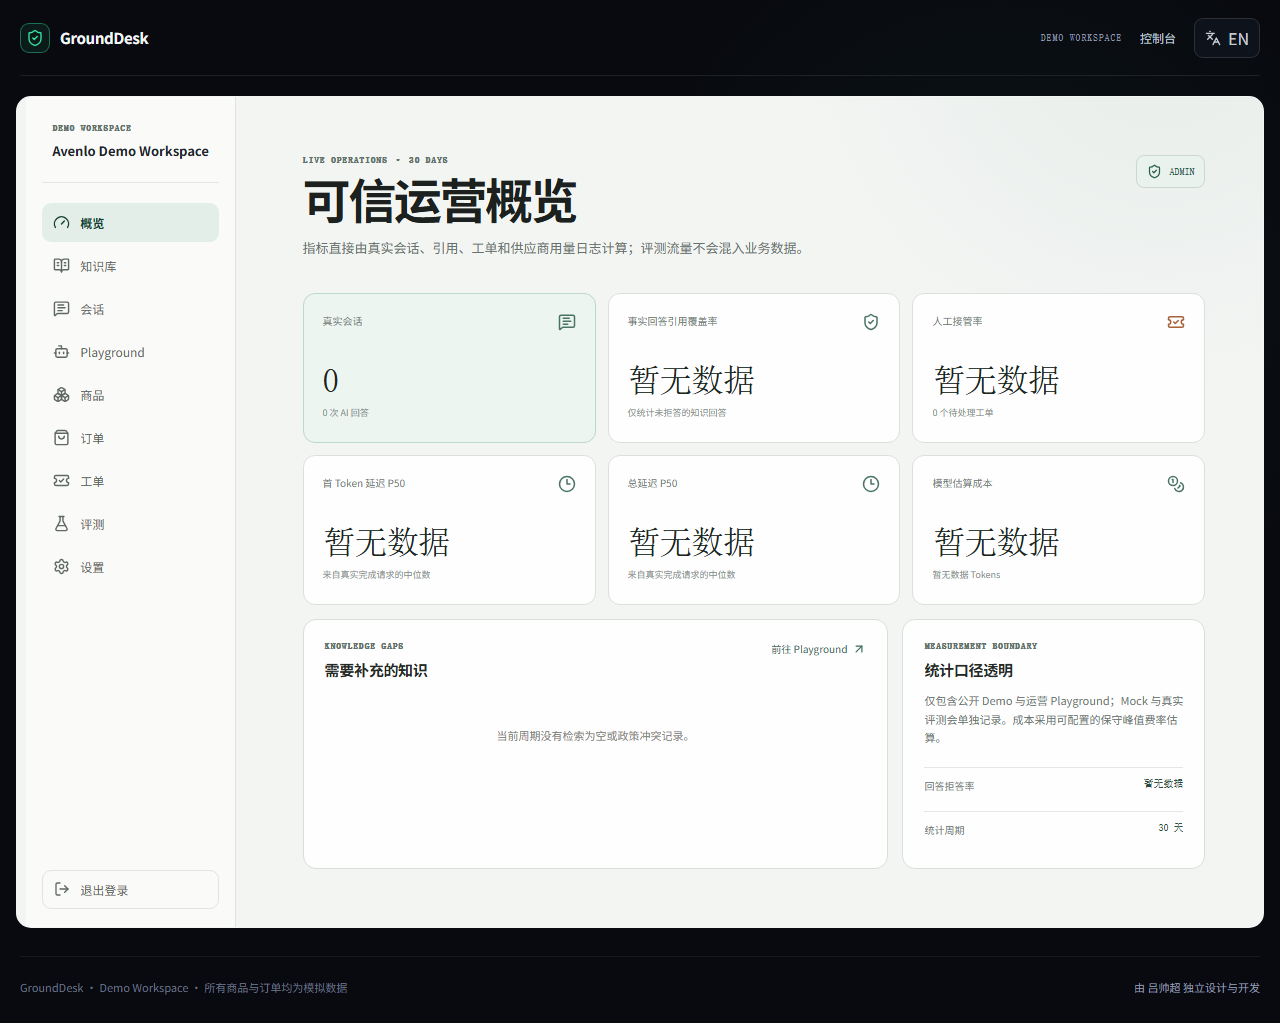
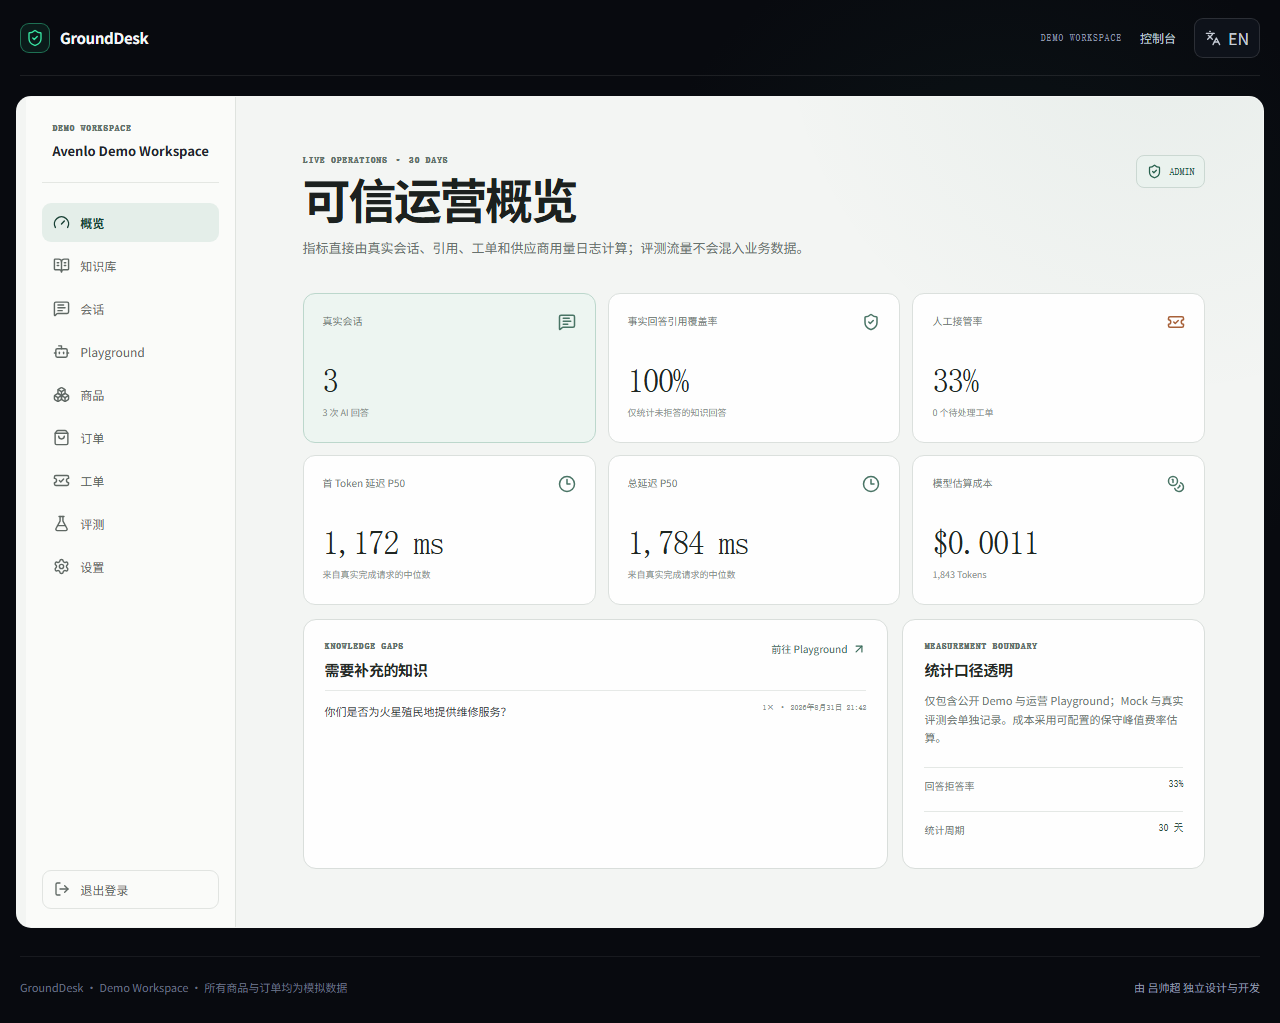
docs: record verified Render deployment

diff --git a/docs/acceptance-matrix.md b/docs/acceptance-matrix.md
@@ -1,34 +1,34 @@
 # GroundDesk 验收矩阵
 
-本文件把原始项目标准映射到可复查证据。状态分为“本地已验证”和“待线上验证”；没有公开 URL 的项目不能据此宣称最终完成。
+本文件把原始项目标准映射到可复查证据。状态区分“本地已验证”与“线上已验证”；仍未完成的外部门禁会在末尾明确列出。
 
 ## 功能与安全
 
-| 验收域                                              | 当前状态   | 权威证据                                                                          |
-| --------------------------------------------------- | ---------- | --------------------------------------------------------------------------------- |
-| 注册、登录、JWT、管理员/客服权限                    | 本地已验证 | `202608290002_auth_boundaries.sql`、`auth.test.ts`、`auth:smoke`、登录/保护页 E2E |
-| Workspace 隔离与 RLS                                | 本地已验证 | 26/26 张业务表启用 RLS；`auth:smoke` 跨 Workspace 为 403；评测隔离用例 2/2        |
-| 8 件商品与 30 个动态日期订单                        | 本地已验证 | 幂等 Seed、`db:verify`、商品与订单控制台、Demo Reset E2E                          |
-| PDF/Markdown/TXT 上传、去重、状态、重试、Chunk 预览 | 本地已验证 | Knowledge Service、解析/切块测试、`knowledge:http-smoke`、知识库浏览器 E2E        |
-| 真实 Embedding 与混合检索                           | 本地已验证 | SiliconFlow `BAAI/bge-m3`、`vector(1024)`、全文检索函数、`knowledge:smoke` 3/3    |
-| DeepSeek 流式回答与真实引用                         | 本地已验证 | Provider Adapter、SSE 路由、引用完整性校验、`agent:smoke`、Live Demo E2E          |
-| 低置信度/冲突/注入拒答与人工接管                    | 本地已验证 | Evidence Guard、Agent 单测、评测无答案与注入用例、Live Demo E2E                   |
-| 订单查询白名单工具                                  | 本地已验证 | DeepSeek Function Calling、Zod 参数、邮箱匹配、脱敏结果、Agent Smoke              |
-| 确定性退货资格与人工审批                            | 本地已验证 | 版本化规则、退货单测 100%、5 条 Live Evaluation、无自动退款路径                   |
-| 工单分配、回复、状态流转                            | 本地已验证 | Ticket Service、真实数据库 Smoke、管理员转客服 E2E                                |
-| Webhook Outbox、HMAC、超时、重试、SSRF 防护         | 本地已验证 | 数据库触发器、Webhook 安全测试、真实本地 HTTP 503 → 202 重试测试                  |
-| IP、Session、每日请求与 Token 成本边界              | 本地已验证 | Fastify IP 限流、独立 Session 窗口、Workspace 每日数据库额度、73 个 API 测试      |
-| Demo 一键恢复                                       | 本地已验证 | 事务重置、8 商品/30 订单/空工单浏览器验收；知识与成员保留                         |
-| 密钥与前端边界                                      | 本地已验证 | `.env` 被忽略；Git 历史 Secret 模式 0；Web 产物服务端 Secret 模式 0               |
+| 验收域                                              | 当前状态   | 权威证据                                                                              |
+| --------------------------------------------------- | ---------- | ------------------------------------------------------------------------------------- |
+| 注册、登录、JWT、管理员/客服权限                    | 线上已验证 | `202608290002_auth_boundaries.sql`、`auth.test.ts`、`auth:smoke`、公网登录/保护页 E2E |
+| Workspace 隔离与 RLS                                | 本地已验证 | 26/26 张业务表启用 RLS；`auth:smoke` 跨 Workspace 为 403；评测隔离用例 2/2            |
+| 8 件商品与 30 个动态日期订单                        | 本地已验证 | 幂等 Seed、`db:verify`、商品与订单控制台、Demo Reset E2E                              |
+| PDF/Markdown/TXT 上传、去重、状态、重试、Chunk 预览 | 本地已验证 | Knowledge Service、解析/切块测试、`knowledge:http-smoke`、知识库浏览器 E2E            |
+| 真实 Embedding 与混合检索                           | 本地已验证 | SiliconFlow `BAAI/bge-m3`、`vector(1024)`、全文检索函数、`knowledge:smoke` 3/3        |
+| DeepSeek 流式回答与真实引用                         | 线上已验证 | Provider Adapter、SSE 路由、引用完整性校验、`agent:smoke`、公网 Live Demo E2E         |
+| 低置信度/冲突/注入拒答与人工接管                    | 线上已验证 | Evidence Guard、Agent 单测、评测无答案与注入用例、公网 Live Demo E2E                  |
+| 订单查询白名单工具                                  | 线上已验证 | DeepSeek Function Calling、Zod 参数、邮箱匹配、脱敏结果、公网 Live Demo E2E           |
+| 确定性退货资格与人工审批                            | 本地已验证 | 版本化规则、退货单测 100%、5 条 Live Evaluation、无自动退款路径                       |
+| 工单分配、回复、状态流转                            | 线上已验证 | Ticket Service、真实数据库 Smoke、公网管理员转客服 E2E                                |
+| Webhook Outbox、HMAC、超时、重试、SSRF 防护         | 本地已验证 | 数据库触发器、Webhook 安全测试、真实本地 HTTP 503 → 202 重试测试                      |
+| IP、Session、每日请求与 Token 成本边界              | 本地已验证 | Fastify IP 限流、独立 Session 窗口、Workspace 每日数据库额度、73 个 API 测试          |
+| Demo 一键恢复                                       | 本地已验证 | 事务重置、8 商品/30 订单/空工单浏览器验收；知识与成员保留                             |
+| 密钥与前端边界                                      | 本地已验证 | `.env` 被忽略；Git 历史 Secret 模式 0；Web 产物服务端 Secret 模式 0                   |
 
 ## 产品、视觉与质量
 
 | 验收域                             | 当前状态   | 权威证据                                                                                 |
 | ---------------------------------- | ---------- | ---------------------------------------------------------------------------------------- |
-| 双语落地页、公开 Demo、核心控制台  | 本地已验证 | Vue I18n 持久化、语言单测、浏览器刷新 E2E                                                |
+| 双语落地页、公开 Demo、核心控制台  | 线上已验证 | Vue I18n 持久化、语言单测、公网浏览器刷新 E2E                                            |
 | Hero 可信流程动画                  | 本地已验证 | `TrustFlowAnimation.vue`；视口触发、悬停暂停、离屏暂停、Reduced Motion E2E               |
 | 服务端事件驱动聊天轨迹             | 本地已验证 | SSE Stage/Token/Citation/Tool 事件；无写死等待；Live Demo E2E                            |
-| 1440、1280、768、390 响应式        | 本地已验证 | `visual-audit.spec.ts` 四视口无水平溢出；三张真实数据截图                                |
+| 1440、1280、768、390 响应式        | 线上已验证 | 公网 `visual-audit.spec.ts` 四视口无水平溢出；三张线上真实数据截图                       |
 | 键盘、焦点、Reduced Motion、对比度 | 本地已验证 | 可见 Focus 样式、语义控件、Reduced Motion 测试、Lighthouse Accessibility 100             |
 | 本地 production Lighthouse         | 本地已验证 | 桌面 99/100/100/100；移动 97/100/100/100（Performance/Accessibility/Best Practices/SEO） |
 | TypeScript、lint、测试、构建       | 本地已验证 | TypeScript strict；lint 零告警；Shared 3 + API 73 + Web 10；production build 通过        |
@@ -40,13 +40,13 @@ README、架构、RAG、Agent、评测、部署、演示脚本、面试问答、
 
 ## 外部部署状态
 
-截至 2026-08-31，公共 GitHub 仓库已创建并推送，项目所有者已授权 Render Static Site 作为前端托管；作者、联系地址与仓库 URL 已写入版本化部署配置。Render 已真实读取并校验 Blueprint，期间发现并修复了 Free Web Service 不支持 `maxShutdownDelaySeconds` 的平台差异。
+截至 2026-08-31，公共 GitHub 仓库、Render Static Site 和 Free API 均已创建。公开地址为 https://grounddesk-ai-lsc.onrender.com，API `/health` 返回 `status: ok`、`runtimeMode: connected`，Database、Generation、Embedding 三个 Provider 均为 configured。Render 首次构建暴露了只读 `/usr/bin/pnpm` 与 `corepack enable` 的冲突，修复并重新同步 Blueprint 后两个服务均为 Live。
 
-以下项目未完成前不得宣布最终上线：
+公网验收实际完成：3 条确定性 E2E、1 条真实 Provider 全链路 E2E、1440/1280/768/390 四视口检查、Web/API 200 状态、精确 CORS、安全响应头，以及 4 项服务端 Secret 对 269 个 Git/Web 构建文件的零匹配扫描。
 
-1. 经项目所有者明确确认后，将本地服务端 Secret 安全写入 Render，并创建 Free API 与 Static Site；
-2. 将最终 Web Origin 写入 Supabase Auth URL；API CORS Origin 已由 Blueprint 服务引用自动生成；
-3. 在无痕窗口重跑登录、引用问答、订单工具、拒答接管与客服结单；
-4. 对公开 URL 重跑四视口、Lighthouse、Secret 模式与响应头检查；
-5. 把最终 URL 写入 README、简历文案和演示脚本；
-6. 投递简历前经项目所有者确认升级 API 为常驻实例，避免 Free 实例休眠造成首次访问冷启动。
+以下项目仍未完成前不得宣称达到原始“最终求职上线”标准：
+
+1. 在 Supabase Dashboard 核对最终 Site URL / Redirect URLs；密码登录已在线通过，但邮件链接流程仍需该配置闭环；
+2. 重新获得公网 Lighthouse 分数；本次 Lighthouse 下载超时且 PageSpeed 公共 API 返回配额限制，现有 99/100/100/100 与 97/100/100/100 仅代表本地 production；
+3. 投递简历前经项目所有者确认升级 API 为常驻实例，避免 Free 实例休眠造成首次访问冷启动；
+4. 项目所有者亲手完成 `owner-checklist.md`，尤其是干净 Clone、真实文档上传、政策变更与无 AI 提示三分钟演示。

diff --git a/README.md b/README.md
@@ -2,13 +2,13 @@
 
 > 每一次回答，都有依据。Support answers you can verify.
 
-GroundDesk 是一个面向电商、SaaS 与教育等场景的双语可信 AI 客服知识库 SaaS。它把“模型会回答”约束为“答案有来源、无依据会拒答、业务动作有确定边界”。本地验收截图已经由真实数据库状态录制，公开 Demo 仍待部署验收；仓库不会使用占位 URL、伪造指标或虚构客户评价。
+GroundDesk 是一个面向电商、SaaS 与教育等场景的双语可信 AI 客服知识库 SaaS。它把“模型会回答”约束为“答案有来源、无依据会拒答、业务动作有确定边界”。公开 Demo 已连接真实 Supabase、DeepSeek 与 SiliconFlow 链路；仓库不会使用占位 URL、伪造指标或虚构客户评价。
 
 ## 在线 Demo
 
-- 公开地址：Render 部署完成并通过线上验收后填写；
+- 公开地址：[https://grounddesk-ai-lsc.onrender.com](https://grounddesk-ai-lsc.onrender.com)；
 - Demo Workspace：虚构消费电子品牌 Avenlo，所有商品、订单与顾客均为模拟数据；
-- 访客无需 API Key；公开部署后可直接体验知识引用、订单查询和人工接管；
+- 访客无需 API Key，可直接体验知识引用、订单查询和人工接管；
 - GitHub：[lsc-261013/grounddesk-ai](https://github.com/lsc-261013/grounddesk-ai)。
 
 ## 核心价值
@@ -32,6 +32,8 @@ GroundDesk 是一个面向电商、SaaS 与教育等场景的双语可信 AI 客
 里程碑 5 已完成：站内工单支持分配、回复与状态流转；Webhook 使用事务型 Outbox、HMAC、超时、重试和 SSRF 防护；26 条双语确定性评测覆盖知识、订单、退货、无答案、提示注入与跨 Workspace 隔离，最新真实运行 26/26 通过。
 
 里程碑 6 的核心浏览器验收已完成：Playwright 覆盖双语持久化、reduced motion、390px 响应式、管理员保护页刷新、客服角色边界，以及真实订单 Tool Call 和无答案人工接管链路。
+
+里程碑 7 的公开部署验收已完成：Render Static Site 与 Free API 均为 Live，`/health` 返回 connected 且三个 Provider 均已配置；同一套 Playwright 用例已直接对公网 Origin 验证登录、权限、引用、工具、拒答、工单闭环和四档响应式。Free API 仍会休眠，投递简历前需要升级为常驻实例。
 
 管理员商品目录现已连接真实数据库，支持双语主数据、结构化规格、价格、退货属性与公开状态的创建和编辑；商品采用归档而非删除以保留历史订单引用，客服无法修改。Demo Reset 会恢复 8 件基准商品。
 
@@ -129,12 +131,12 @@ pnpm test:e2e
 部署后可将 `E2E_BASE_URL` 设置为公开 Web Origin；Playwright 会跳过本地开发服务器，直接对线上站点执行同一套登录、权限、RAG、工具与接管验收。PowerShell 示例：
 
 ```powershell
-$env:E2E_BASE_URL = 'https://your-public-web-origin.example'
+$env:E2E_BASE_URL = 'https://grounddesk-ai-lsc.onrender.com'
 $env:E2E_LIVE_AI = 'true'
 pnpm test:e2e
 ```
 
-2026-08-31 本地 production build 的 Lighthouse 13 结果：桌面端 Performance 99 / Accessibility 100 / Best Practices 100 / SEO 100；移动端为 97 / 100 / 100 / 100。公开部署后必须从无痕环境重跑，不能把本地网络结果直接当作线上成绩。
+2026-08-31 本地 production build 的 Lighthouse 13 结果：桌面端 Performance 99 / Accessibility 100 / Best Practices 100 / SEO 100；移动端为 97 / 100 / 100 / 100。线上 Playwright 与响应头已实测，但本次公网 Lighthouse 工具下载超时、PageSpeed API 又返回配额限制，因此这里仍明确标注为本地成绩，不把它冒充线上分数。
 
 真实服务专项检查：
 
@@ -163,7 +165,7 @@ pnpm eval:report
 - `vercel.json`：pnpm Monorepo Web 构建、SPA Rewrite、缓存与基础安全头；
 - [部署手册](docs/deployment.md)：Supabase、Render、DeepSeek、SiliconFlow、CORS、Auth URL 与无痕验收。
 
-开发期 Free API 空闲后会休眠，仅用于部署联调；投递简历前再经项目所有者授权升级为常驻实例，避免首次访问冷启动。当前 README 不填写未验证的公开 URL。
+当前公开环境使用 Render Free API，空闲后会休眠；投递简历前再经项目所有者授权升级为常驻实例，避免 HR 首次访问遇到约 50 秒冷启动。公开 Web 与 API 地址、CORS、安全响应头和真实 AI 主路径均已验证。
 
 ## 安全说明
 
@@ -178,7 +180,8 @@ pnpm eval:report
 
 ## 已知限制
 
-- 尚未完成 Render 公开部署与无痕线上验收；当前 Lighthouse 记录仅代表本地 production build；
+- Render Free API 会在空闲后休眠，不满足正式求职投递阶段的首访体验；升级常驻实例仍需项目所有者确认付费；
+- 当前 Lighthouse 记录仅代表本地 production build；线上重跑因工具下载超时及 PageSpeed 公共 API 配额限制尚未获得可复查分数；
 - PDF 只解析文本层，扫描件需先 OCR；
 - 当前未加入 Reranker，混合召回后直接执行证据门禁；
 - 只提供通用签名 Webhook，不接 Shopify、WhatsApp、邮件、支付或真实退款；
@@ -188,7 +191,7 @@ pnpm eval:report
 
 ## 项目截图
 
-以下截图来自真实本地 API、数据库与最新 Live Evaluation，不是静态设计稿。自动化视觉验收覆盖 1440×900、1280×800、768×1024 和 390×844，并检查每个尺寸没有水平溢出；公开部署后会从无痕环境再次录制核对。
+以下截图来自公开 Render 环境、真实 Supabase 数据库与最新 Live Evaluation，不是静态设计稿。自动化视觉验收覆盖 1440×900、1280×800、768×1024 和 390×844，并检查每个尺寸没有水平溢出。
 
 ![GroundDesk 深色落地页](docs/images/landing-desktop.png)
 

diff --git a/docs/learning-notes.md b/docs/learning-notes.md
@@ -325,6 +325,8 @@ Supabase Auth 负责成熟的密码和 Token 生命周期，Fastify 负责业务
 
 部署前的最后一轮验收审计发现，Playwright 配置把 Base URL 和两个 Dev Server 固定在本地，无法把已经验证的浏览器路径原样迁移到公开站点。配置现支持 `E2E_BASE_URL`：设置时不启动本地服务，直接验证远程 Origin；不设置时保持原有本地行为。这让线上验收与本地验收使用同一份测试，而不是部署后靠另一套临时步骤产生证据漂移。
 
+真实 Render 首次部署又暴露了一个只会在托管镜像出现的问题：Build Command 里的 `corepack enable` 会尝试重建 `/usr/bin/pnpm`，但该路径在 Render Node 26 镜像中只读，API 和 Static Site 都以 `EROFS` 立即失败。仓库已声明 `packageManager: pnpm@11.19.0`，平台也已经提供 pnpm shim，因此修复是删除多余的 `corepack enable`，提交 Blueprint 后手动同步并审批。修复后的两个服务均为 Live，公网 `/health` 显示 connected；远程 Playwright 随后通过登录、角色隔离、真实引用、订单 Tool Call、无答案接管、客服结单和四档响应式检查。这一经历说明部署配置必须由真实平台日志验证，不能只靠本地构建推断。
+
 ### 继续追问时怎样深入
 
 可以说明为什么免费实例只能暂时把幂等迁移放进 Build Command、升级后为什么恢复 Pre-deploy、Seed 为什么不能进入部署链路、CORS Origin 为什么不能写通配符、静态前端与 API 如何分别回滚，以及常驻实例如何避免 HR 首次访问冷启动。

diff --git a/docs/resume-copy.md b/docs/resume-copy.md
@@ -1,6 +1,6 @@
 # GroundDesk 求职文案
 
-以下文案只描述仓库中已经实现并验证的能力。在线 URL、GitHub URL、Lighthouse 分数和后续评测结果必须在真实部署后填写，不能预估。
+以下文案只描述仓库中已经实现并验证的能力。在线 URL、GitHub URL 和评测结果来自真实部署；Lighthouse 只引用明确标注的本地 production 成绩，不预估线上分数。
 
 ## 简历项目描述
 
@@ -29,8 +29,8 @@
 
 项目同时实现 Supabase Auth/RLS、多租户权限、SSE 流式轨迹、Webhook Outbox、真实评测与 Playwright 验收。我可以在三分钟内现场演示从 RAG 引用、Tool Calling 到人工接管的完整链路，并解释其中的失败案例与工程取舍。
 
-在线 Demo：部署后填写  
-GitHub：部署后填写
+- 在线 Demo：https://grounddesk-ai-lsc.onrender.com
+- GitHub：https://github.com/lsc-261013/grounddesk-ai
 
 感谢阅读，期待进一步交流。
 

diff --git a/docs/demo-script.md b/docs/demo-script.md
@@ -1,5 +1,7 @@
 # GroundDesk 三分钟中文演示脚本
 
+公开 Demo：https://grounddesk-ai-lsc.onrender.com
+
 ## 演示前准备
 
 - 使用无痕窗口打开公开落地页；
